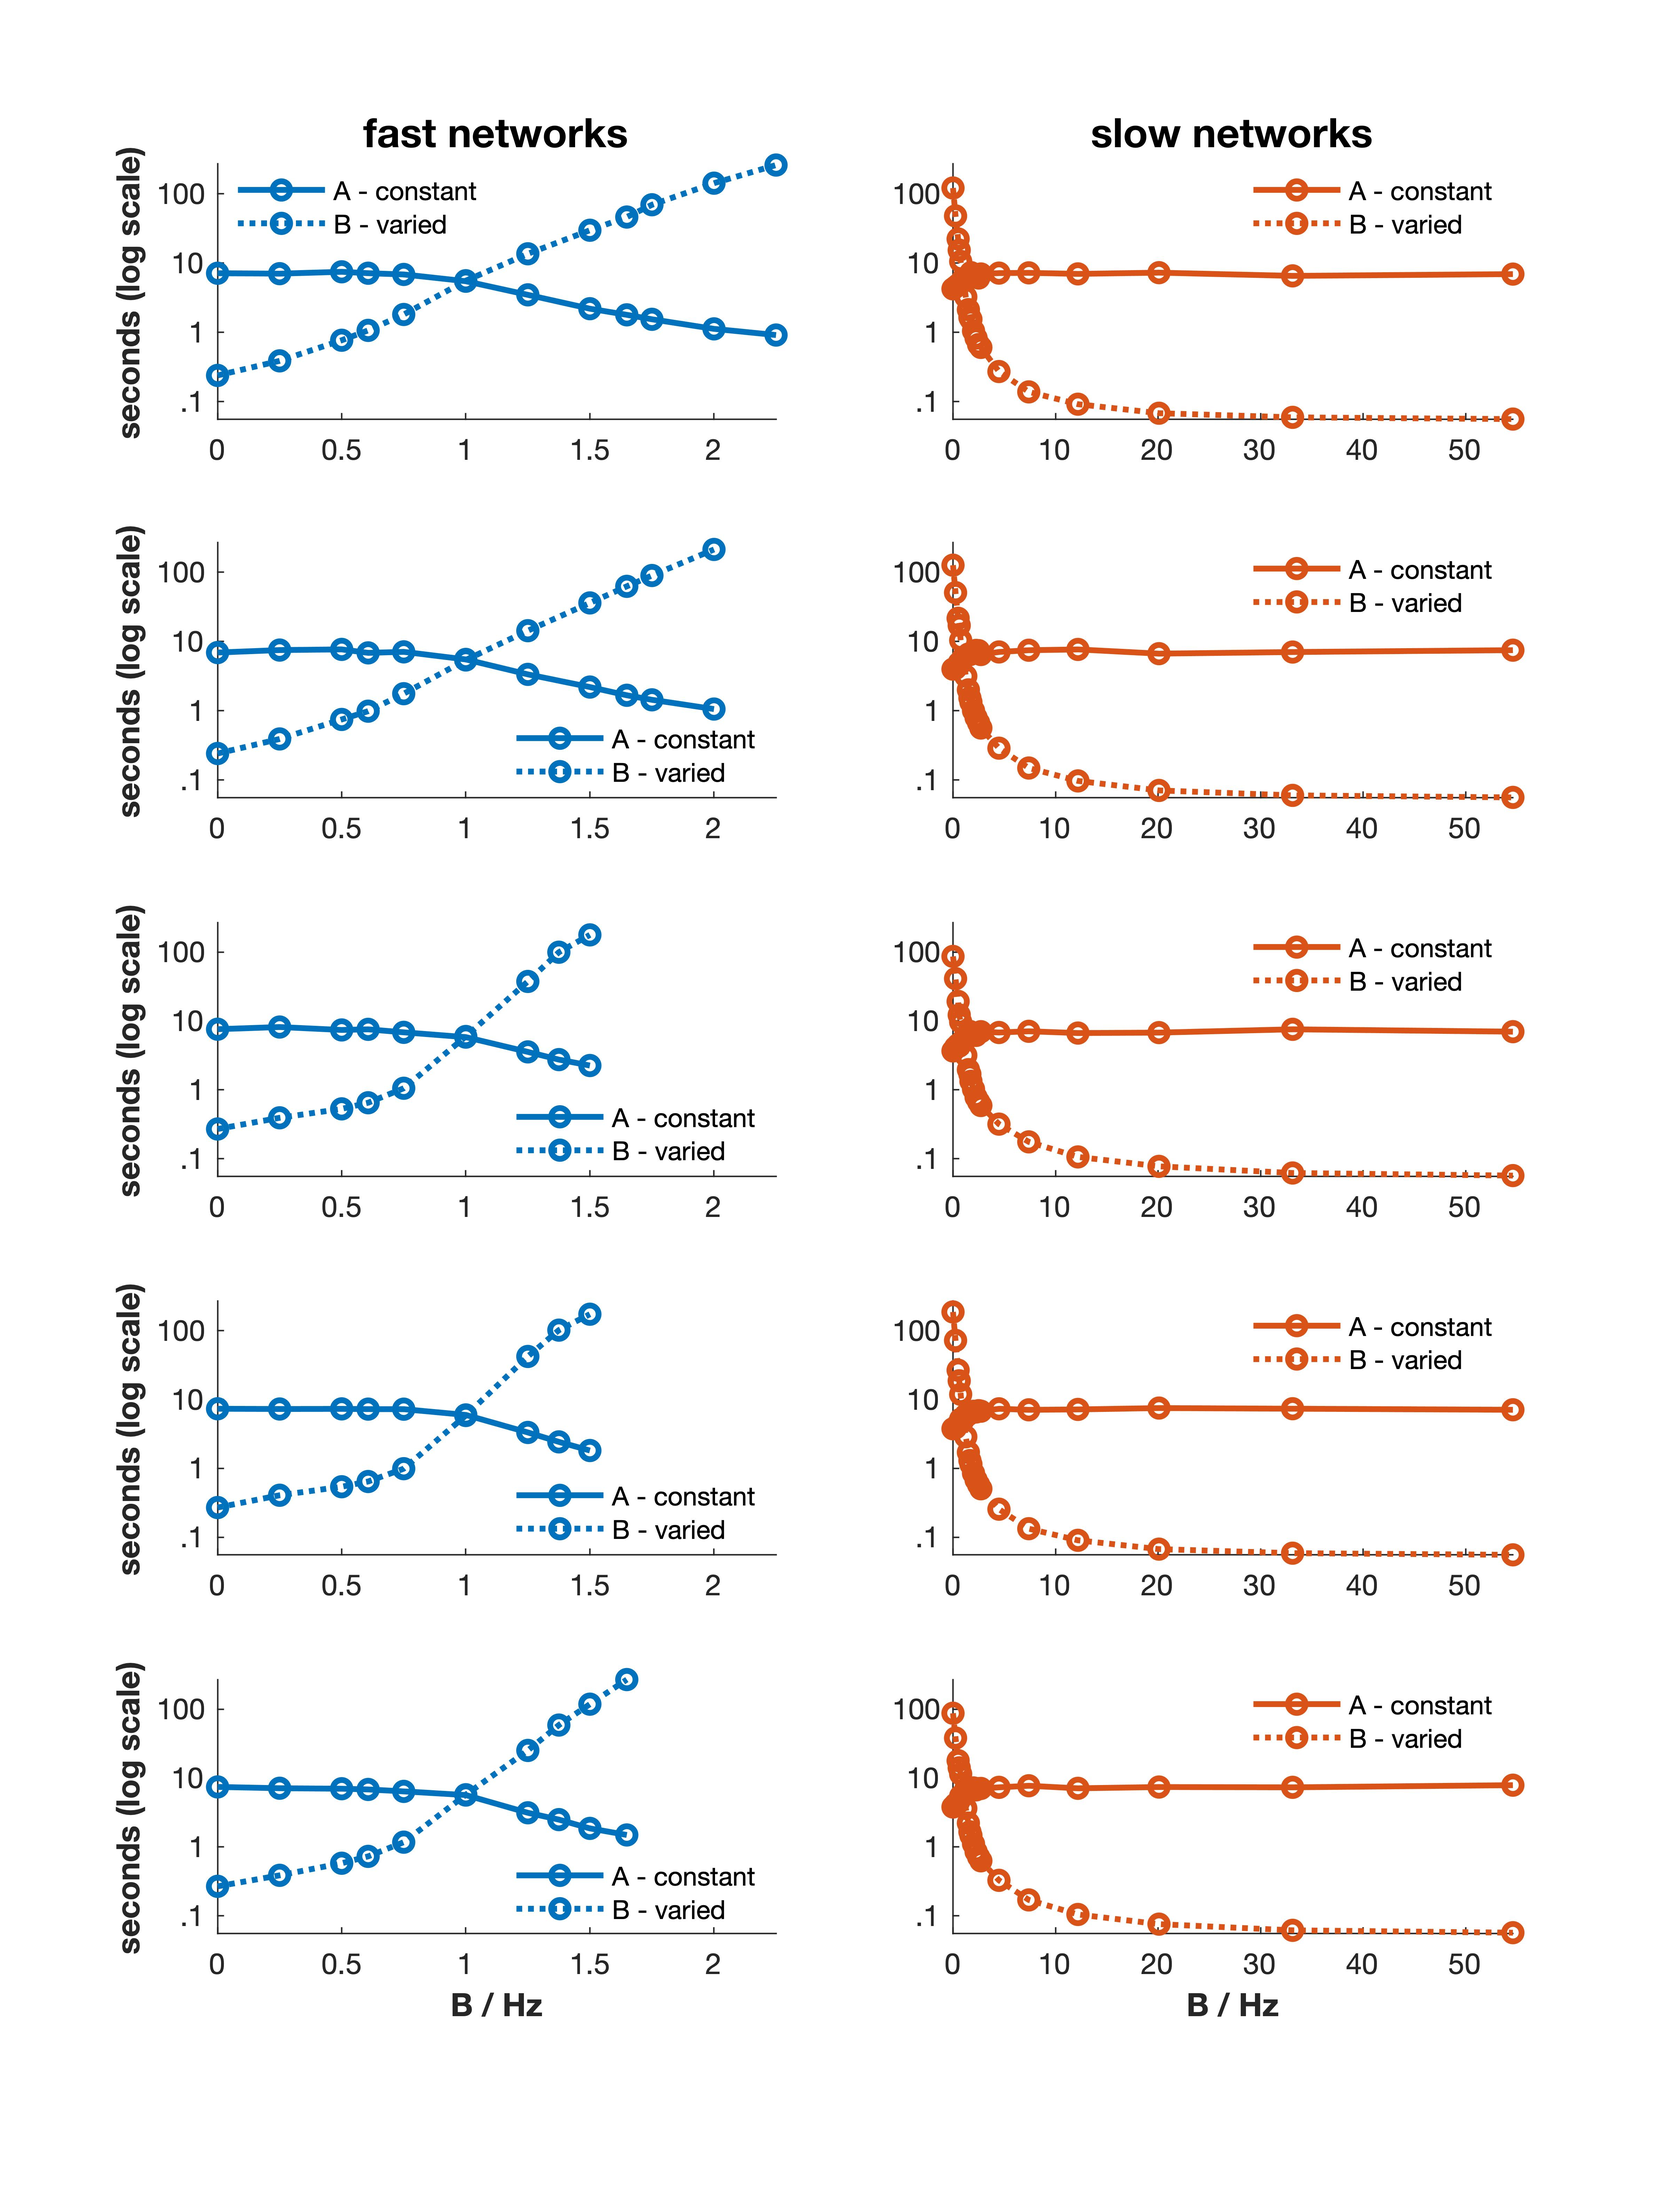
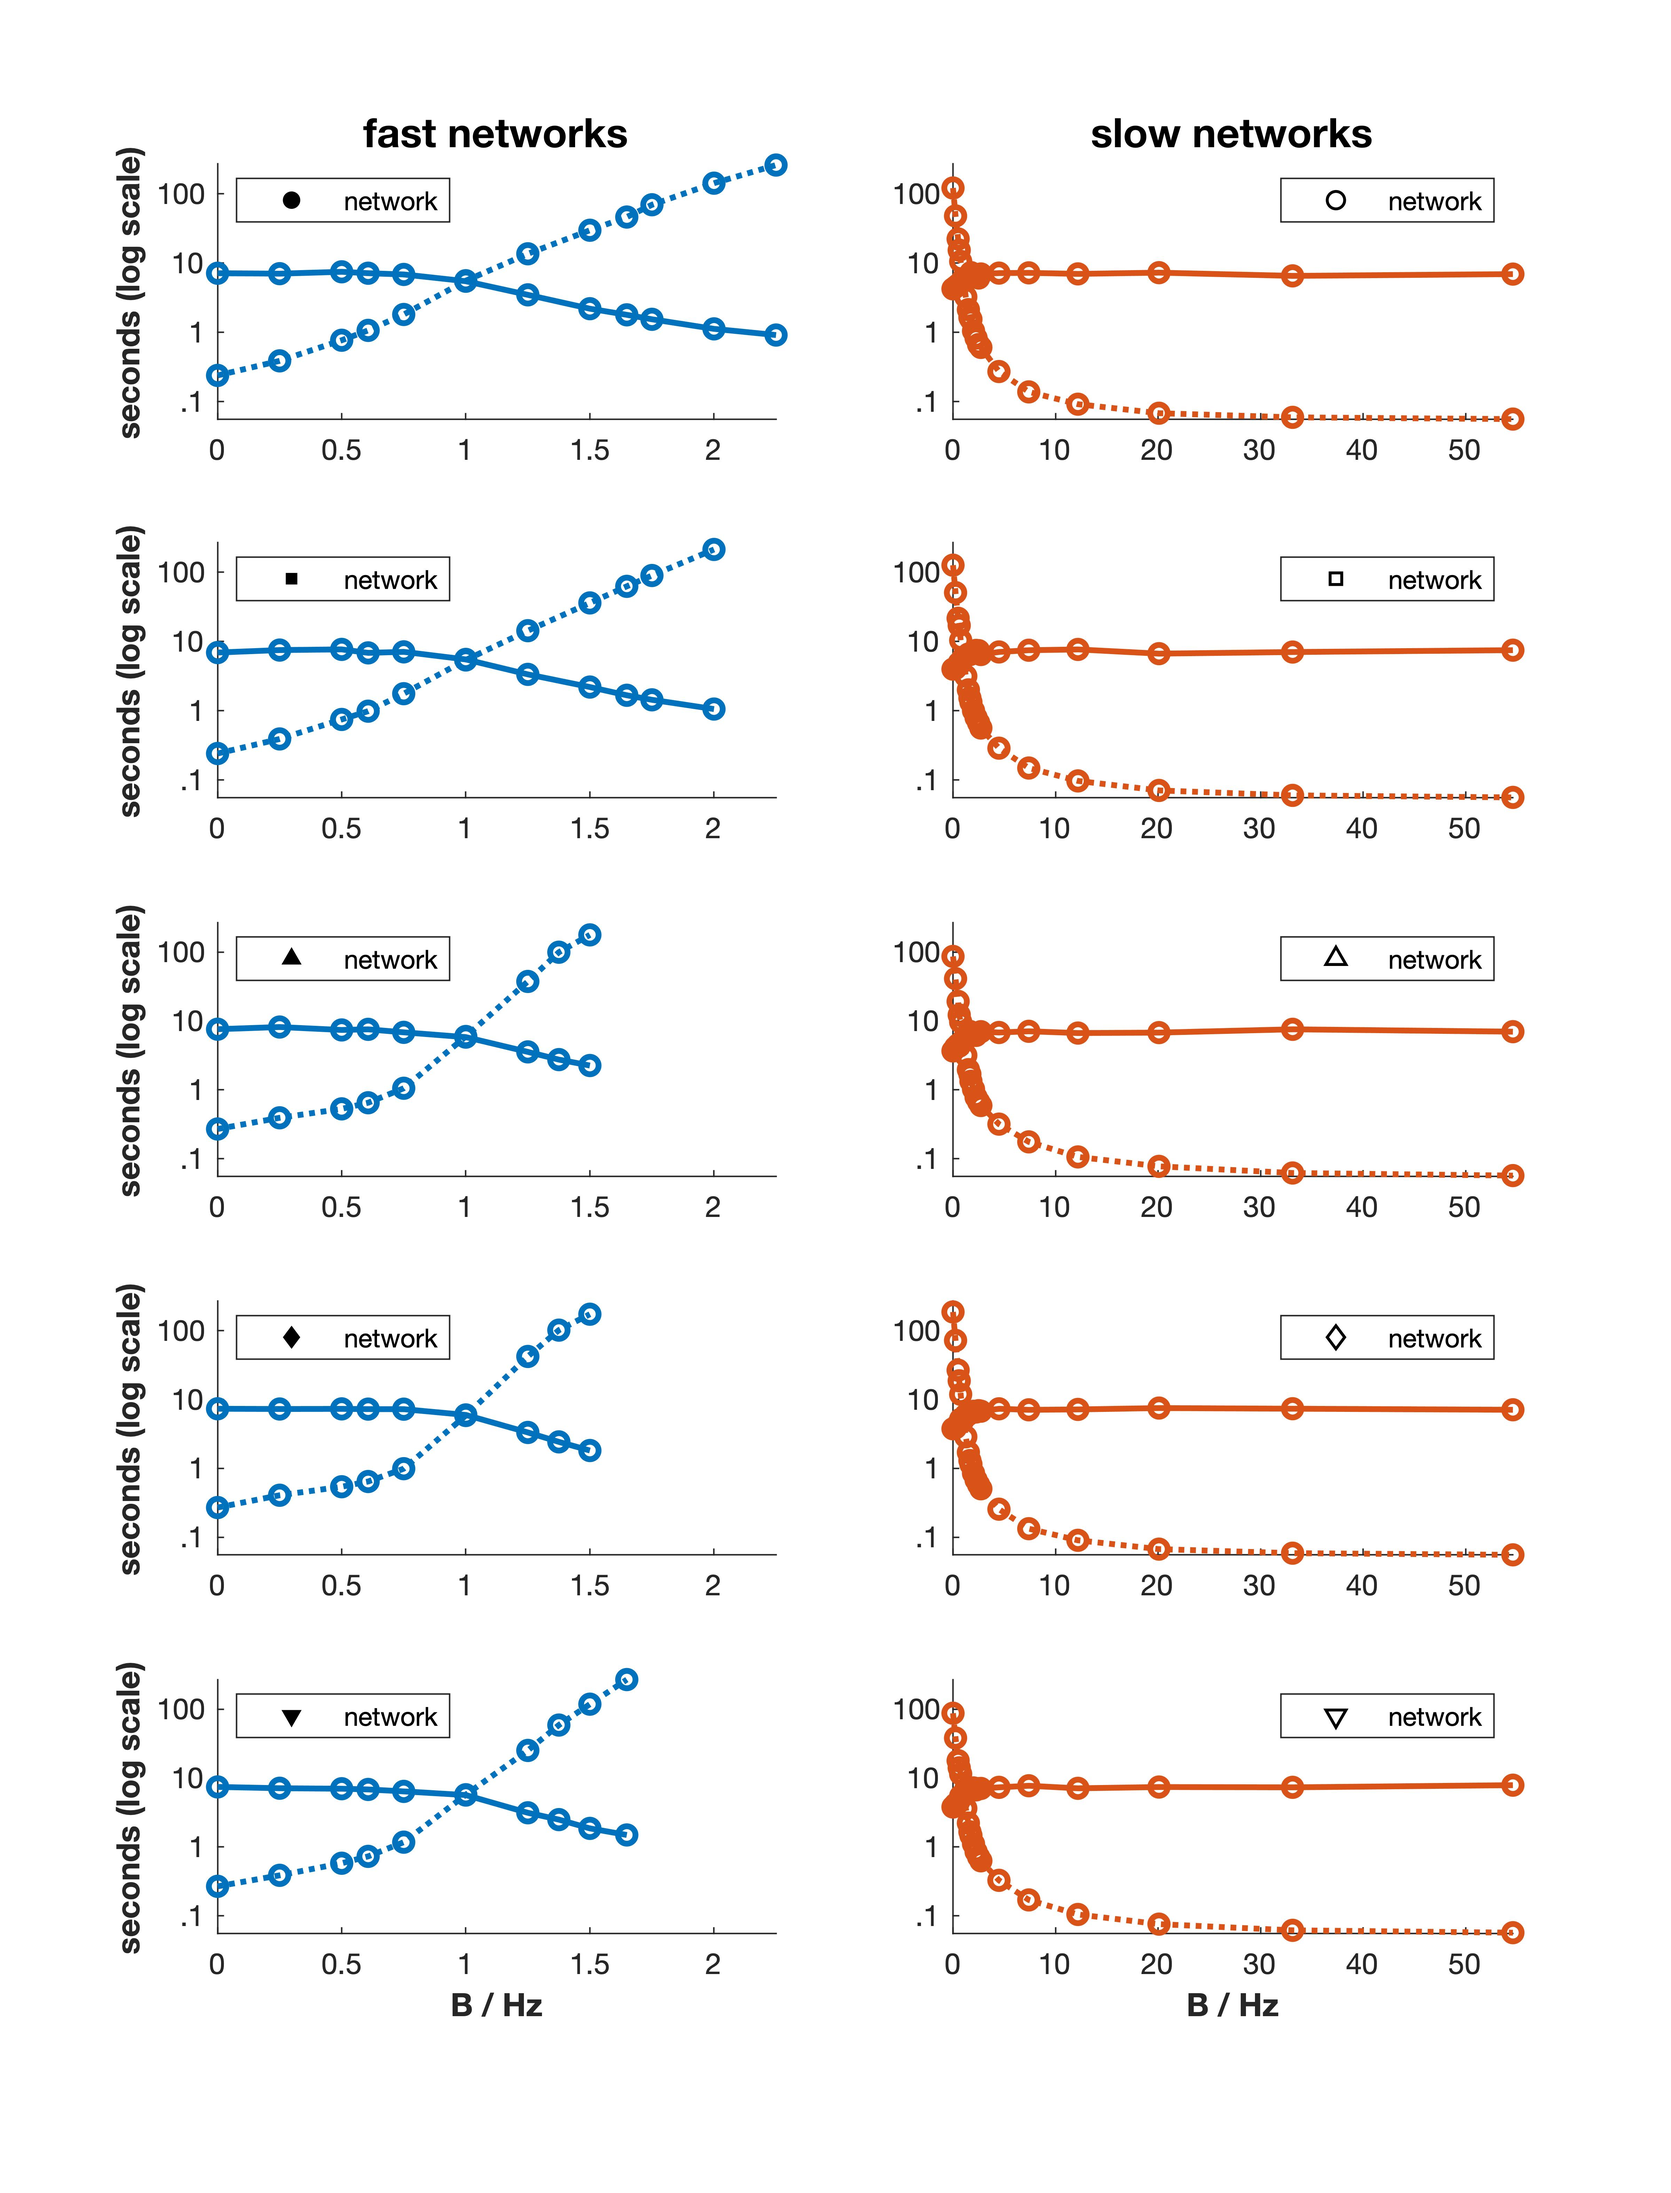
figure stuff

diff --git a/inspect_results/multiple_networks/stimulus_preference.m b/inspect_results/multiple_networks/stimulus_preference.m
@@ -41,111 +41,6 @@ for idx = 1:numel(Snames)
 end
 return
 
-% num_workers = numel(Snames);
-% c = parcluster('local');
-% c.NumWorkers = num_workers;
-% parpool(c,c.NumWorkers,'IdleTimeout',Inf)
-%
-% parfor i = 1:numel(Snames)
-%     opt = struct();
-%     %sample duration
-%     opt.outcome_stat = 'mu'; opt.pulse_stim = 'yes';
-%     make_my_figs(basedir,Snames{i},figdir,opt)
-%     %duration after stim onset
-%     opt.outcome_stat = 'mu'; opt.pulse_stim = 'rem';
-%     make_my_figs(basedir,Snames{i},figdir,opt)
-%     %log duration after onset
-%     opt.outcome_stat = 'logmu'; opt.pulse_stim = 'rem';
-%     make_my_figs(basedir,Snames{i},figdir,opt)
-%     %total time
-%     opt.outcome_stat = 'mu'; opt.pulse_stim = 'total_time';
-%     make_my_figs(basedir,Snames{i},figdir,opt)
-%     %log total time
-%     opt.outcome_stat = 'logmu'; opt.pulse_stim = 'total_time';
-%     make_my_figs(basedir,Snames{i},figdir,opt)
-% end
-%
-% delete(gcp('nocreate'))
-
-% %control, log total time @ 150 pulse
-% opt.outcome_stat = 'mu'; opt.pulse_stim = 'off';
-% make_my_figs(basedir,Snames{1},figdir,opt)
-%
-% %control, log total time @ 10 pulse
-% opt.outcome_stat = 'logmu'; opt.pulse_stim = 'total_time';
-% make_my_figs(basedir,Snames{1},figdir,opt)
-
-
-%equate X axes for all figs of the same type
-%Snames = Snames(1:end-1);
-figdir = fullfile(basedir,'Results',figdir,'durations');
-savedir = fullfile(figdir,'Xsynced');
-if ~isdir(savedir),mkdir(savedir);end
-ftypes = {'total_time','total_time_log'};
-%ftypes = {'decision_timing_log','decision_timing','total_time','total_time_log','total_samples'};
-
-invid_cols = {'yes','no'}; %equate x axes within column (e.g. slow vs fast)
-
-for idx = 1:numel(ftypes)
-    
-    Xls = NaN(numel(Snames),2);
-    switch invid_cols{idx}
-        case 'yes'
-            Xls = cat(3,Xls,Xls);
-    end
-    for fidx = 1:numel(Snames)
-        fn = fullfile(figdir,[Snames{fidx} '_' ftypes{idx} '.fig']);
-        h = openfig(fn);
-        switch invid_cols{idx}
-            case 'yes'
-                ax = num2cell(findall(h, 'type', 'axes'));
-                %left column even, right column odd
-                ax = cellfun(@(x) x.XLim,ax,'UniformOutput',false);
-                ax = [ax(2:2:end),ax(1:2:end)]; %sort to columns
-                ax = num2cell(ax,1);
-                ax = cellfun(@cell2mat,ax,'UniformOutput',false);
-                ax = cellfun(@(x) [min(x(:,1)),max(x(:,2))],ax,'UniformOutput',false);
-                Xls(fidx,:,:) = cat(3,ax{:}); %put in 3rd D
-            otherwise
-                Xls(fidx,:) = h.CurrentAxes.XLim;
-        end
-        close all
-    end
-    switch invid_cols{idx}
-        case 'yes'
-            xlims = [min(Xls(:,1,:)),max(Xls(:,2,:))];
-            xlims = squeeze(xlims); %now Xlims column is Xlims for a column
-        otherwise
-            xlims = [min(Xls(:,1)),max(Xls(:,2))];
-    end
-    %xlims = [0,.8];
-    for fidx = 1:numel(Snames)
-        fn = fullfile(figdir,[Snames{fidx} '_' ftypes{idx} '.fig']);
-        h = openfig(fn);
-        ax = findobj(h,'Type','Axes');
-        switch invid_cols{idx}
-            case 'yes' %left column even, right column odd
-                set(ax(2:2:end),'XLim',xlims(:,1))
-                set(ax(1:2:end),'XLim',xlims(:,2))
-            otherwise
-                set(ax,'XLim',xlims)
-        end
-        ch = allchild(ax);
-        ch = cat(1,ch{:});
-        set(ch,'Normalization','probability')
-        binwit = cellfun(@(x) x.XLim,num2cell(ax),'UniformOutput',false);
-        binwit = cellfun(@range,binwit) ./ 50;
-        binwit = num2cell(binwit);
-        nodata = cellfun(@(x) isempty(x.Children),num2cell(ax));
-        cellfun(@(x,y) set(x,'BinWidth',y),num2cell(ch),binwit(~nodata));   %set(ch,'BinWidth',.1)
-        Fdir = fullfile(savedir,ftypes{idx});
-        if ~isdir(Fdir),mkdir(Fdir);end
-        print(fullfile(Fdir,[Snames{fidx} '_' ftypes{idx}]),'-djpeg')
-        close all
-    end
-    
-end
-
 % %for summary statistics
 % fprintf('network_spiking_P150_1 log(s) decision-timing\n')
 % %control, log total time @ 150 pulse
@@ -436,14 +331,20 @@ matblue = [0,0.4470,0.7410];
 matorange = [0.8500,0.3250,0.0980];
 BLcol = [103 115 122] ./ 255;
 
+%symbols to match parsweep_find_examples.m. Since get_network_params() creates
+%network_pair_info, the ordering below  will match the network_pair_info
+%ordering in parsweep_find_examples.m.
+net_symbs = {'o','square','^','diamond','v'}; %closed for fast nets, open for slow nets
 SPdata = []; %for scatter plot data
 h = [];
 plt_idx = 0;
+mk_sz = 300; %for adding netword symbs
+mk_ln = 1;
 figure;orient tall
 for idx = 1:num_pairs
     
     curr_net_info = network_pair_info{idx};
-    for j = 2:-1:1 %match the fast, slow ordering in other figures...   
+    for j = 2:-1:1 %match the fast, slow ordering in other figures...
         
         plt_idx = plt_idx + 1;
         h(plt_idx) = subplot(ceil(num_net_types/2),2,plt_idx);
@@ -453,7 +354,7 @@ for idx = 1:num_pairs
         net_ind = curr_net_info{j,IDvars};
         net_ind = ismember(net_type{:,IDvars},net_ind,'rows');
         curr_data = result_data(net_ind,1);
-       
+        
         switch outcome_stat
             case 'mu'
                 statfunc = @mean;
@@ -482,9 +383,16 @@ for idx = 1:num_pairs
         switch curr_net_info.Row{j}
             case 'slow'
                 col = matorange;
+                nm = scatter(NaN,NaN,mk_sz,'black',net_symbs{idx},...
+                    'MarkerFaceAlpha',1,'MarkerEdgeAlpha',1,'LineWidth',mk_ln);
+                legend(nm,'network','Location','northeast','AutoUpdate','off')
             case 'fast'
                 col = matblue;
+                nm = scatter(NaN,NaN,mk_sz,'black',net_symbs{idx},'filled',...
+                    'MarkerFaceAlpha',1,'MarkerEdgeAlpha',1);
+                legend(nm,'network','Location','northwest','AutoUpdate','off')
         end
+        
         
         
         plot(Xvals,curr_data.data_A,'-o','LineWidth',2,'Color',col)
@@ -492,9 +400,10 @@ for idx = 1:num_pairs
         plot(Xvals,curr_data.data_B,':o','LineWidth',2,'Color',col)
         
         %xlim([min(Xvals),max(Xvals)])
-
-        legend_labs = {'A - constant','B - varied'};
-        legend(legend_labs,'Location','best','Box','off')
+       
+        %legend_labs = {'network','A - constant','B - varied'};
+        %legend_labs = {'A - constant','B - varied'};
+        %legend(legend_labs,'Location','best','Box','off')
         
         hold off
         axis tight
@@ -509,11 +418,13 @@ for idx = 1:num_pairs
             ylabel(Zlabel,'FontWeight','bold')
         end
         
+        
         %organize data for scatter plo
         curr_data.net_index = repmat(plt_idx,size(curr_data,1),1); %index ID for scatter plot
         SPdata = [SPdata;curr_data];
     end
 end
+
 
 switch outcome_stat
     case {'logmu','logmed'}
@@ -539,14 +450,16 @@ switch outcome_stat
         %axis tight
 end
 
+
+
 switch print_anything
     case 'yes'
-        set(gcf,'Renderer','painters') 
-        %my code typically saves figures in specific results directories, w/ particular filenames 
-        print(fullfile(figdir,fig_fn),'-djpeg','-r600') 
+        set(gcf,'Renderer','painters')
+        %my code typically saves figures in specific results directories, w/ particular filenames
+        print(fullfile(figdir,fig_fn),'-djpeg','-r600')
         savefig(fullfile(figdir,fig_fn))
-        %also save one here since it's a figure for the paper 
-        print('fig6-full_data','-djpeg','-r600') 
+        %also save one here since it's a figure for the paper
+        print('fig6-full_data','-djpeg','-r600')
 end
 
 close all;figure;orient portrait
@@ -568,17 +481,17 @@ for idx = 1:numel(SPcells)
         this_net = curr_data(this_net,:);
         col_idx = floor(size(Bcol,1)./numel(curr_nets)).*(plt_idx-1) + 1; %color index
         switch SPcells{idx}
-           case 'slow'
-               %col = Bcol(col_idx,:);
-               col = matorange;
-           case 'fast'
-               %col = Rcol(col_idx,:);
-               col = matblue;
+            case 'slow'
+                %col = Bcol(col_idx,:);
+                col = matorange;
+            case 'fast'
+                %col = Rcol(col_idx,:);
+                col = matblue;
         end
         
         %scatter(this_net.data_B,this_net.data_A,Msz,col,'Marker',markers{plt_idx},'Linewidth',1.25)
         scatter(this_net.data_B,this_net.data_A,Msz,col,'filled','MarkerFaceAlpha',alph) %slightly different coloring/markers here
-
+        
         axis tight
         
         switch outcome_stat
@@ -595,7 +508,7 @@ for idx = 1:numel(SPcells)
 end
 
 %title(sprintf('Implicit Competition'),'FontWeight','bold','Fontsize',14)
-        
+
 set(gca,'FontSize',20)
 Xtick = get(gca,'XTick');
 Xtick = linspace(Xtick(1),Xtick(end),5);
@@ -627,8 +540,8 @@ switch print_anything
         print('fig5-preference_data','-djpeg','-r600') %schwartzupdate_fig
 end
 
-%just print two seperate figs, way easier 
-%do line plot for this network as well 
+%just print two seperate figs, way easier
+%do line plot for this network as well
 h = [];
 plt_idx = 0;
 figure;set(gcf,'Renderer','painters')
@@ -639,8 +552,8 @@ set(gcf,'Position',pos);
 for idx = 2
     
     curr_net_info = network_pair_info{idx};
-    for j = 2:-1:1 %match the fast, slow ordering in other figures...       
-            
+    for j = 2:-1:1 %match the fast, slow ordering in other figures...
+        
         plt_idx = plt_idx + 1;
         h(plt_idx) = subplot(1,2,plt_idx);
         hold on
@@ -722,7 +635,7 @@ for idx = 2
                 ylabel(Zlabel,'FontWeight','bold')
         end
         title(sprintf('%s network',curr_net_info.Row{j}),'FontWeight','bold')
-
+        
     end
 end
 

diff --git a/inspect_results/parsweep/parsweep_find_examples.m b/inspect_results/parsweep/parsweep_find_examples.m
@@ -290,7 +290,7 @@ for idx = 1:numel(net_plots(:,1))
             'LineWidth',mk_ln);
     end
 end
-
+keyboard
 %fix the colorbar axes
 cb = colorbar();
 ticklabs = 10.^cb.Ticks; %in seconds
